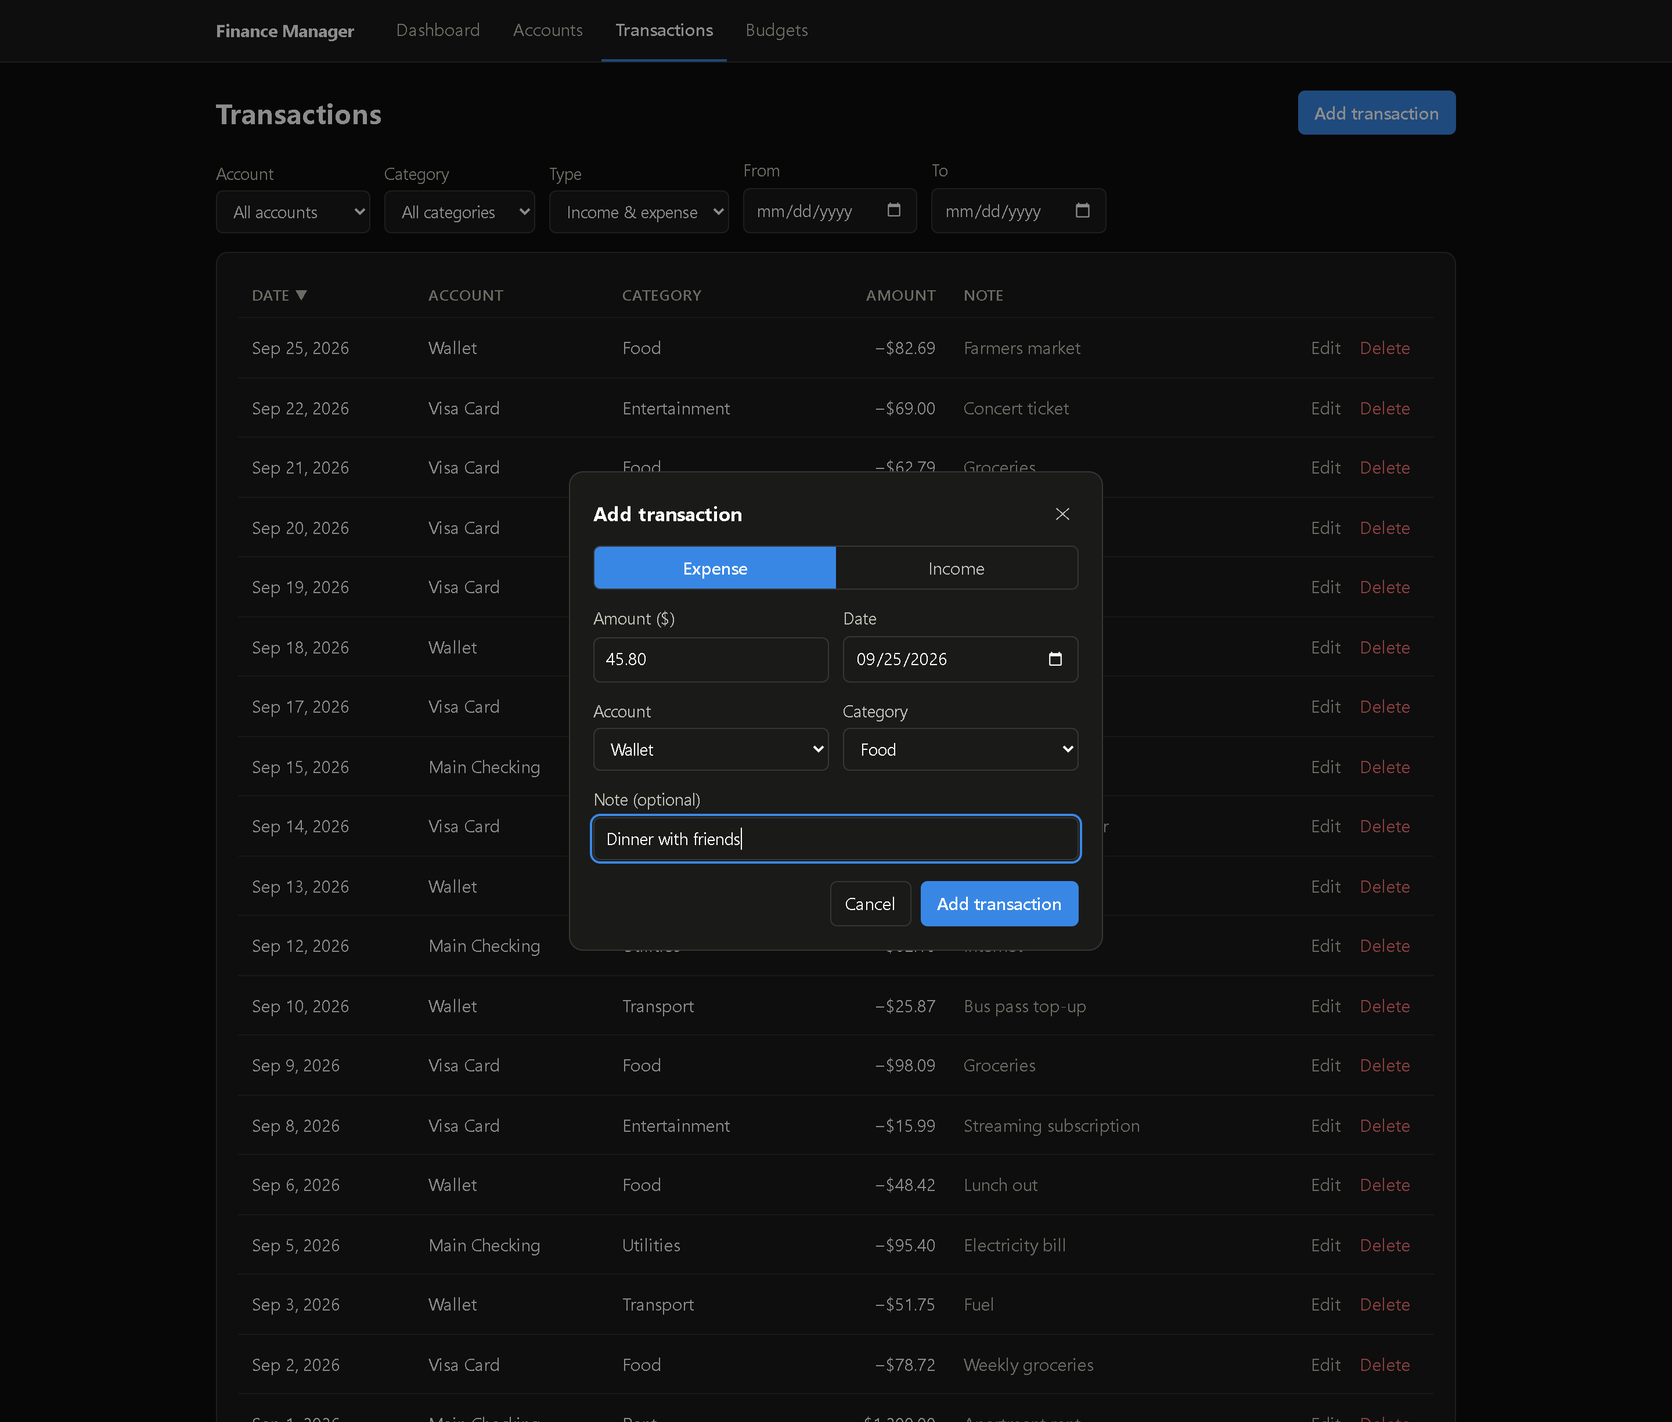
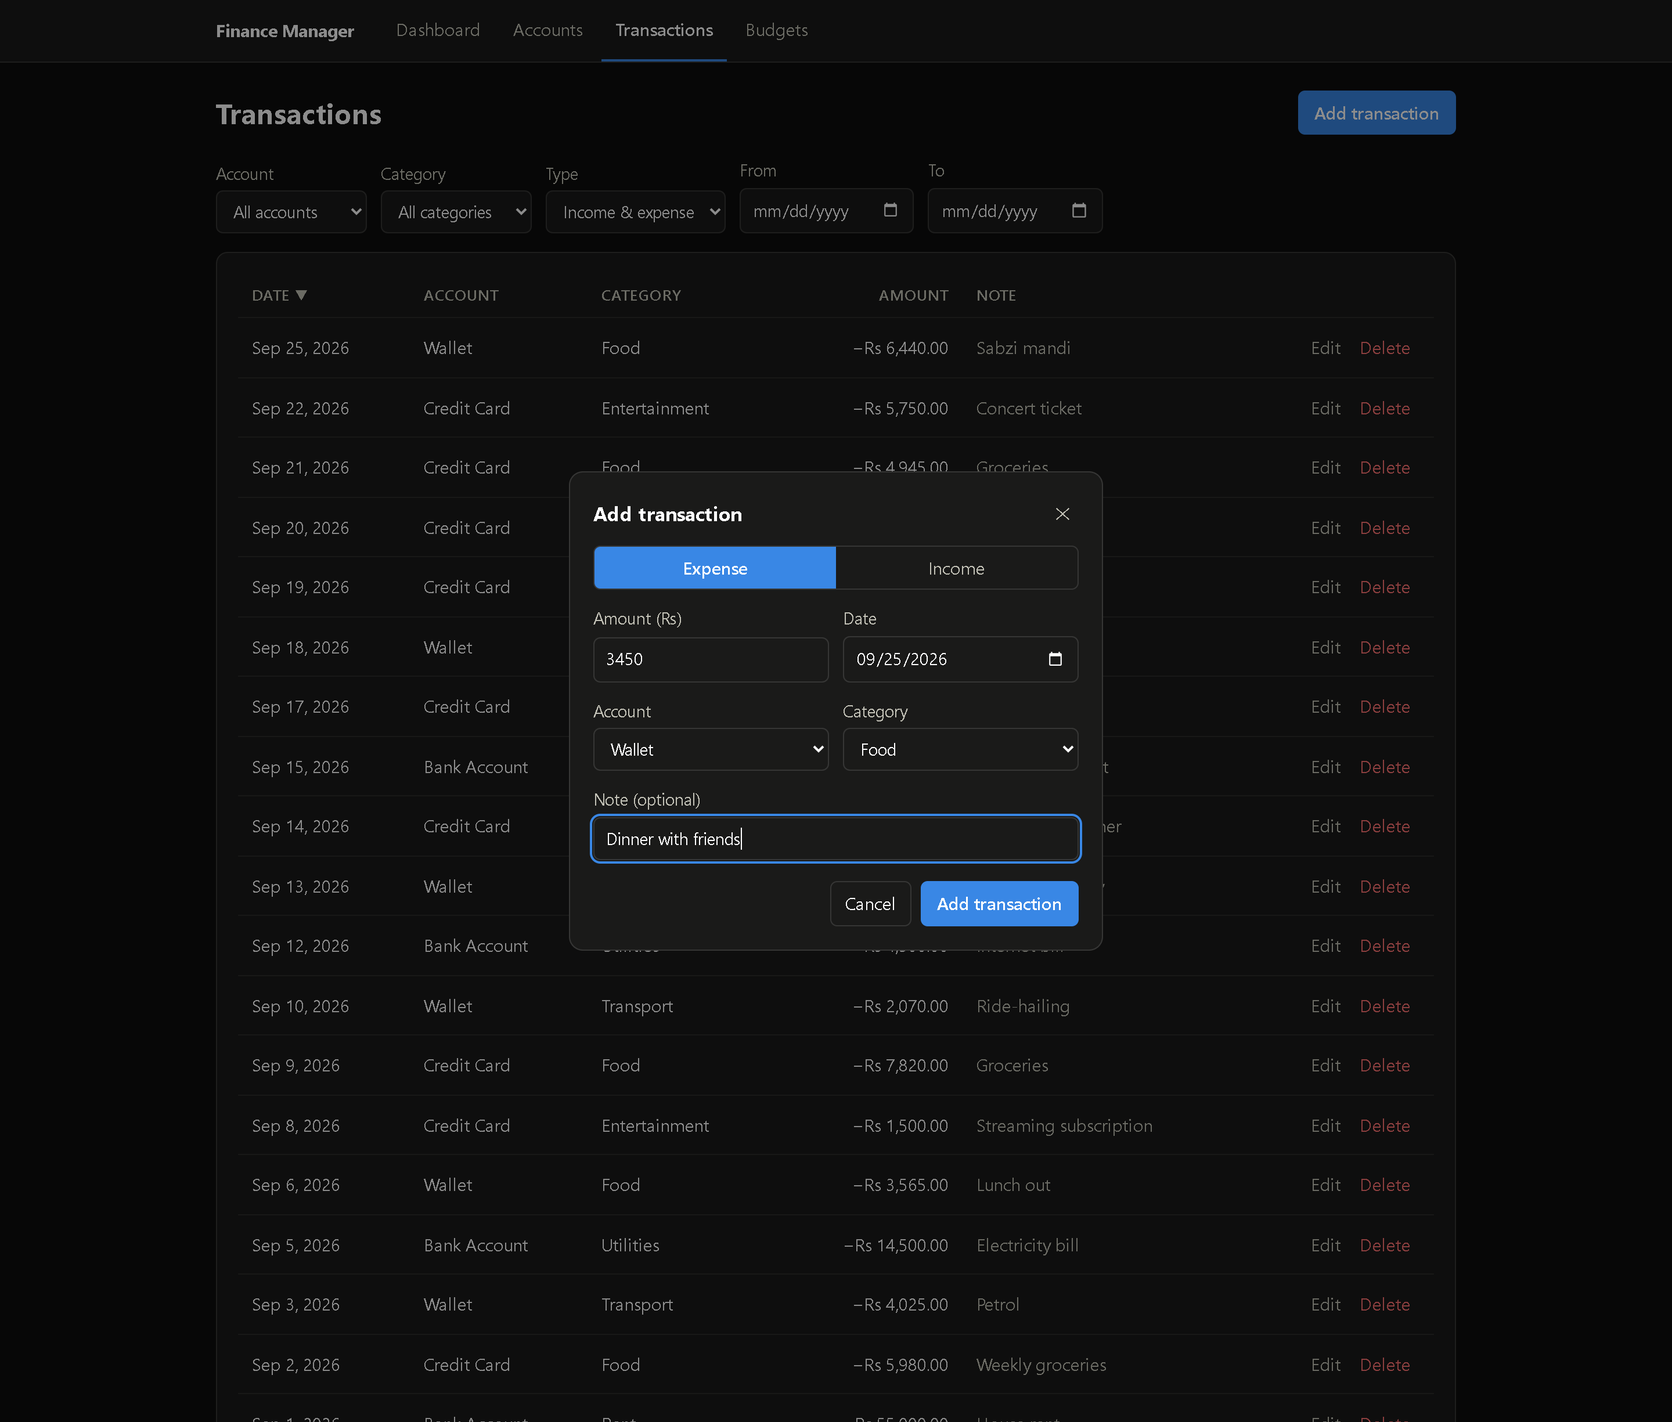
Switch currency to Pakistani rupees (PKR)
- Format every amount as "Rs 1,234.50" using the en-PK locale, forced to
  two decimals because Chrome's PKR data has none and would hide paisa
- Label inputs with Rs instead of $, and use whole-rupee chart axis labels
- Rescale the sample data to realistic rupee amounts and neutral account
  names
- Update tests, README wording and regenerate the screenshots

diff --git a/client/src/pages/Dashboard.test.jsx b/client/src/pages/Dashboard.test.jsx
@@ -56,15 +56,22 @@ describe('Dashboard', () => {
 
   it('shows income, expenses and a signed net for the month', async () => {
     render(<Dashboard />);
-    expect(await screen.findByText('$3,450.00')).toBeInTheDocument();
-    expect(screen.getByText('$2,273.25')).toBeInTheDocument();
-    expect(screen.getByText('+$1,176.75')).toBeInTheDocument();
+    expect(await screen.findByText('Rs 3,450.00')).toBeInTheDocument();
+    expect(screen.getByText('Rs 2,273.25')).toBeInTheDocument();
+    expect(screen.getByText('+Rs 1,176.75')).toBeInTheDocument();
+  });
+
+  it('shows every amount in rupees with no dollar signs', async () => {
+    render(<Dashboard />);
+    await screen.findByText('Rs 3,450.00');
+    expect(document.body.textContent).not.toContain('$');
+    expect(document.body.textContent).toContain('Rs');
   });
 
   it('shows a negative net without a plus sign', async () => {
     reportsApi.summary.mockResolvedValue({ ...summary, totalIncome: 100, totalExpenses: 300, net: -200 });
     render(<Dashboard />);
-    const net = await screen.findByText('-$200.00');
+    const net = await screen.findByText('-Rs 200.00');
     expect(net).toHaveClass('negative');
   });
 
@@ -73,7 +80,7 @@ describe('Dashboard', () => {
     render(<Dashboard />);
     await screen.findByText('No expenses in', { exact: false });
     const stats = [...document.querySelectorAll('.stat-value')];
-    expect(stats.map((el) => el.textContent)).toEqual(['$0.00', '$0.00', '$0.00']);
+    expect(stats.map((el) => el.textContent.replace(/\u00a0/g, ' '))).toEqual(['Rs 0.00', 'Rs 0.00', 'Rs 0.00']);
     expect(stats[2]).not.toHaveClass('negative');
     expect(stats[2]).not.toHaveClass('income');
   });
@@ -82,16 +89,16 @@ describe('Dashboard', () => {
     render(<Dashboard />);
     const rent = (await screen.findAllByText('Rent')).find((el) => el.classList.contains('name'));
     const row = rent.closest('li');
-    expect(within(row).getByText('$1,200.00')).toBeInTheDocument();
+    expect(within(row).getByText('Rs 1,200.00')).toBeInTheDocument();
     expect(within(row).getByText('53%')).toBeInTheDocument();
     expect(screen.getByTestId('doughnut')).toHaveTextContent('Rent,Food');
   });
 
   it('flags over-budget and under-budget categories with words as well as colour', async () => {
     render(<Dashboard />);
-    expect(await screen.findByText(/Over budget by \$124\.87 \(131\.2%\)/)).toHaveClass('over');
-    expect(screen.getByText(/Under budget, \$20\.00 left \(83\.3%\)/)).toHaveClass('under');
-    expect(screen.getByText('$524.87 of $400.00')).toBeInTheDocument();
+    expect(await screen.findByText(/Over budget by \Rs 124\.87 \(131\.2%\)/)).toHaveClass('over');
+    expect(screen.getByText(/Under budget, \Rs 20\.00 left \(83\.3%\)/)).toHaveClass('under');
+    expect(screen.getByText('Rs 524.87 of Rs 400.00')).toBeInTheDocument();
   });
 
   it('caps the progress bar at 100% when over budget', async () => {
@@ -127,7 +134,7 @@ describe('Dashboard', () => {
 
   it('reloads the reports when the month changes', async () => {
     render(<Dashboard />);
-    await screen.findByText('$3,450.00');
+    await screen.findByText('Rs 3,450.00');
     await userEvent.click(screen.getByRole('button', { name: 'Previous month' }));
     const previous = addMonths(month, -1);
     expect(reportsApi.summary).toHaveBeenLastCalledWith(previous);
@@ -140,6 +147,6 @@ describe('Dashboard', () => {
     expect(await screen.findByRole('alert')).toHaveTextContent('Cannot reach the server');
     reportsApi.summary.mockResolvedValue(summary);
     await userEvent.click(screen.getByRole('button', { name: 'Retry' }));
-    expect(await screen.findByText('$3,450.00')).toBeInTheDocument();
+    expect(await screen.findByText('Rs 3,450.00')).toBeInTheDocument();
   });
 });

diff --git a/server/src/db/seed.js b/server/src/db/seed.js
@@ -4,36 +4,36 @@ import { addMonths, currentMonth, todayISO } from '../utils/dates.js';
 import { toCents } from '../utils/money.js';
 
 const ACCOUNTS = [
-  ['Wallet', 'Cash', 900],
-  ['Main Checking', 'Bank', 2500],
-  ['Visa Card', 'Credit Card', 0],
+  ['Wallet', 'Cash', 70000],
+  ['Bank Account', 'Bank', 250000],
+  ['Credit Card', 'Credit Card', 0],
 ];
 
 const MONTH_TEMPLATE = [
-  [1, 'Main Checking', 'Salary', 'income', 3200, 'Monthly paycheck', false],
-  [1, 'Main Checking', 'Rent', 'expense', 1200, 'Apartment rent', false],
-  [2, 'Visa Card', 'Food', 'expense', 68.45, 'Weekly groceries', true],
-  [3, 'Wallet', 'Transport', 'expense', 45, 'Fuel', true],
-  [5, 'Main Checking', 'Utilities', 'expense', 95.4, 'Electricity bill', false],
-  [6, 'Wallet', 'Food', 'expense', 42.1, 'Lunch out', true],
-  [8, 'Visa Card', 'Entertainment', 'expense', 15.99, 'Streaming subscription', false],
-  [9, 'Visa Card', 'Food', 'expense', 85.3, 'Groceries', true],
-  [10, 'Wallet', 'Transport', 'expense', 22.5, 'Bus pass top-up', true],
-  [12, 'Main Checking', 'Utilities', 'expense', 62.1, 'Internet', false],
-  [13, 'Wallet', 'Food', 'expense', 37.8, 'Takeaway dinner', true],
-  [14, 'Visa Card', 'Entertainment', 'expense', 42, 'Cinema and dinner', true],
-  [15, 'Main Checking', 'Other', 'income', 250, 'Freelance gig', false],
-  [17, 'Visa Card', 'Food', 'expense', 96.25, 'Groceries', true],
-  [18, 'Wallet', 'Transport', 'expense', 48, 'Fuel', true],
-  [19, 'Visa Card', 'Health', 'expense', 28.5, 'Pharmacy', true],
-  [20, 'Visa Card', 'Shopping', 'expense', 79.99, 'New shoes', true],
-  [21, 'Visa Card', 'Food', 'expense', 54.6, 'Groceries', true],
-  [22, 'Visa Card', 'Entertainment', 'expense', 60, 'Concert ticket', true],
-  [25, 'Wallet', 'Food', 'expense', 71.9, 'Farmers market', true],
-  [28, 'Visa Card', 'Food', 'expense', 63.15, 'Groceries', true],
+  [1, 'Bank Account', 'Salary', 'income', 185000, 'Monthly salary', false],
+  [1, 'Bank Account', 'Rent', 'expense', 55000, 'House rent', false],
+  [2, 'Credit Card', 'Food', 'expense', 5200, 'Weekly groceries', true],
+  [3, 'Wallet', 'Transport', 'expense', 3500, 'Petrol', true],
+  [5, 'Bank Account', 'Utilities', 'expense', 14500, 'Electricity bill', false],
+  [6, 'Wallet', 'Food', 'expense', 3100, 'Lunch out', true],
+  [8, 'Credit Card', 'Entertainment', 'expense', 1500, 'Streaming subscription', false],
+  [9, 'Credit Card', 'Food', 'expense', 6800, 'Groceries', true],
+  [10, 'Wallet', 'Transport', 'expense', 1800, 'Ride-hailing', true],
+  [12, 'Bank Account', 'Utilities', 'expense', 4500, 'Internet bill', false],
+  [13, 'Wallet', 'Food', 'expense', 2900, 'Dinner takeaway', true],
+  [14, 'Credit Card', 'Entertainment', 'expense', 3500, 'Cinema and dinner', true],
+  [15, 'Bank Account', 'Other', 'income', 22000, 'Freelance project', false],
+  [17, 'Credit Card', 'Food', 'expense', 7400, 'Groceries', true],
+  [18, 'Wallet', 'Transport', 'expense', 4000, 'Petrol', true],
+  [19, 'Credit Card', 'Health', 'expense', 2400, 'Pharmacy', true],
+  [20, 'Credit Card', 'Shopping', 'expense', 6500, 'New shoes', true],
+  [21, 'Credit Card', 'Food', 'expense', 4300, 'Groceries', true],
+  [22, 'Credit Card', 'Entertainment', 'expense', 5000, 'Concert ticket', true],
+  [25, 'Wallet', 'Food', 'expense', 5600, 'Sabzi mandi', true],
+  [28, 'Credit Card', 'Food', 'expense', 4800, 'Groceries', true],
 ];
 
-const BUDGETS = { Food: 400, Transport: 120, Entertainment: 150, Utilities: 170 };
+const BUDGETS = { Food: 32000, Transport: 9000, Entertainment: 12000, Utilities: 20000 };
 
 const MONTH_FACTORS = [0.7, 1.0, 1.15];
 

diff --git a/client/src/components/TransactionForm.test.jsx b/client/src/components/TransactionForm.test.jsx
@@ -65,7 +65,7 @@ describe('TransactionForm (new)', () => {
 
   it('submits numeric ids and amount to the API, then reports success', async () => {
     const { onSaved } = renderForm();
-    await userEvent.type(screen.getByLabelText('Amount ($)'), '12.34');
+    await userEvent.type(screen.getByLabelText('Amount (Rs)'), '12.34');
     await userEvent.selectOptions(screen.getByLabelText('Account'), 'Bank');
     await userEvent.selectOptions(screen.getByLabelText('Category'), 'Food');
     await userEvent.type(screen.getByLabelText('Note (optional)'), 'lunch');
@@ -84,7 +84,7 @@ describe('TransactionForm (new)', () => {
 
   it('does not submit without a category', async () => {
     renderForm();
-    await userEvent.type(screen.getByLabelText('Amount ($)'), '5');
+    await userEvent.type(screen.getByLabelText('Amount (Rs)'), '5');
     await userEvent.click(screen.getByRole('button', { name: 'Add transaction' }));
     expect(transactionsApi.create).not.toHaveBeenCalled();
   });
@@ -92,7 +92,7 @@ describe('TransactionForm (new)', () => {
   it('shows the server error and stays open', async () => {
     transactionsApi.create.mockRejectedValue(new Error('accountId does not exist'));
     const { onSaved } = renderForm();
-    await userEvent.type(screen.getByLabelText('Amount ($)'), '5');
+    await userEvent.type(screen.getByLabelText('Amount (Rs)'), '5');
     await userEvent.selectOptions(screen.getByLabelText('Category'), 'Food');
     await userEvent.click(screen.getByRole('button', { name: 'Add transaction' }));
 
@@ -110,7 +110,7 @@ describe('TransactionForm (new)', () => {
   it('explains when there are no accounts yet', () => {
     renderForm({ accounts: [] });
     expect(screen.getByText(/at least one account/i)).toBeInTheDocument();
-    expect(screen.queryByLabelText('Amount ($)')).not.toBeInTheDocument();
+    expect(screen.queryByLabelText('Amount (Rs)')).not.toBeInTheDocument();
   });
 });
 
@@ -128,7 +128,7 @@ describe('TransactionForm (edit)', () => {
   it('prefills every field', () => {
     renderForm({ transaction: existing });
     expect(screen.getByRole('radio', { name: 'Income' })).toBeChecked();
-    expect(screen.getByLabelText('Amount ($)')).toHaveValue(250);
+    expect(screen.getByLabelText('Amount (Rs)')).toHaveValue(250);
     expect(screen.getByLabelText('Account')).toHaveValue('2');
     expect(screen.getByLabelText('Category')).toHaveValue('2');
     expect(screen.getByLabelText('Date')).toHaveValue('2026-03-04');
@@ -137,7 +137,7 @@ describe('TransactionForm (edit)', () => {
 
   it('updates by id', async () => {
     const { onSaved } = renderForm({ transaction: existing });
-    const amount = screen.getByLabelText('Amount ($)');
+    const amount = screen.getByLabelText('Amount (Rs)');
     await userEvent.clear(amount);
     await userEvent.type(amount, '300');
     await userEvent.click(screen.getByRole('button', { name: 'Save changes' }));

diff --git a/client/src/pages/Transactions.test.jsx b/client/src/pages/Transactions.test.jsx
@@ -43,20 +43,20 @@ describe('Transactions page', () => {
     await renderPage();
     const expense = screen.getByText('Market').closest('tr');
     expect(within(expense).getByText('Sep 25, 2026')).toBeInTheDocument();
-    expect(within(expense).getByText('−$82.69')).toHaveClass('expense');
+    expect(within(expense).getByText('−Rs 82.69')).toHaveClass('expense');
     const income = screen.getByText('Salary', { selector: 'td' }).closest('tr');
-    expect(within(income).getByText('+$3,200.00')).toHaveClass('income');
+    expect(within(income).getByText('+Rs 3,200.00')).toHaveClass('income');
   });
 
   it('summarises the count and net of what is shown', async () => {
     await renderPage();
-    expect(screen.getByText(/2 transactions · Net \$3,117\.31/)).toBeInTheDocument();
+    expect(screen.getByText(/2 transactions · Net \Rs 3,117\.31/)).toBeInTheDocument();
   });
 
   it('uses the singular for one transaction', async () => {
     transactionsApi.list.mockResolvedValue([transactions[0]]);
     await renderPage();
-    expect(screen.getByText(/1 transaction · Net -\$82\.69/)).toBeInTheDocument();
+    expect(screen.getByText(/1 transaction · Net -\Rs 82\.69/)).toBeInTheDocument();
   });
 
   it('requests newest first by default', async () => {
@@ -116,7 +116,7 @@ describe('Transactions page', () => {
     await renderPage();
     await clickRowDelete('Market');
     expect(within(dialog()).getByRole('heading', { name: 'Delete transaction' })).toBeInTheDocument();
-    expect(within(dialog()).getByText(/\$82\.69 Food transaction from Sep 25, 2026/)).toBeInTheDocument();
+    expect(within(dialog()).getByText(/\Rs 82\.69 Food transaction from Sep 25, 2026/)).toBeInTheDocument();
     expect(transactionsApi.remove).not.toHaveBeenCalled();
 
     await userEvent.click(within(dialog()).getByRole('button', { name: 'Delete' }));
@@ -160,7 +160,7 @@ describe('Transactions page', () => {
     await userEvent.click(within(screen.getByText('Market').closest('tr')).getByRole('button', { name: 'Edit' }));
     const dialog = document.querySelector('dialog');
     expect(within(dialog).getByRole('heading', { name: 'Edit transaction' })).toBeInTheDocument();
-    expect(within(dialog).getByLabelText('Amount ($)')).toHaveValue(82.69);
+    expect(within(dialog).getByLabelText('Amount (Rs)')).toHaveValue(82.69);
     expect(within(dialog).getByLabelText('Note (optional)')).toHaveValue('Market');
   });
 

diff --git a/client/src/utils/format.test.js b/client/src/utils/format.test.js
@@ -1,15 +1,47 @@
 import { describe, expect, it } from 'vitest';
-import { addMonths, currentMonth, formatDate, formatMoney, formatMonth, todayISO } from './format.js';
+import {
+  CURRENCY_SYMBOL,
+  addMonths,
+  currentMonth,
+  formatDate,
+  formatMoney,
+  formatMoneyWhole,
+  formatMonth,
+  todayISO,
+} from './format.js';
 
 describe('formatMoney', () => {
-  it('formats dollars with separators and two decimals', () => {
-    expect(formatMoney(0)).toBe('$0.00');
-    expect(formatMoney(1234.5)).toBe('$1,234.50');
-    expect(formatMoney(1000000)).toBe('$1,000,000.00');
+  it('formats rupees with separators and two decimals', () => {
+    expect(formatMoney(0)).toBe('Rs\u00a00.00');
+    expect(formatMoney(1234.5)).toBe('Rs\u00a01,234.50');
+    expect(formatMoney(1000000)).toBe('Rs\u00a01,000,000.00');
+  });
+
+  it('always shows two decimals so paisa are never hidden', () => {
+    expect(formatMoney(10.5)).toBe('Rs\u00a010.50');
+    expect(formatMoney(207000)).toBe('Rs\u00a0207,000.00');
+    expect(formatMoney(0.07)).toBe('Rs\u00a00.07');
   });
 
   it('formats negatives with a minus sign', () => {
-    expect(formatMoney(-1623.35)).toBe('-$1,623.35');
+    expect(formatMoney(-1623.35)).toBe('-Rs\u00a01,623.35');
+  });
+});
+
+describe('formatMoneyWhole', () => {
+  it('drops the decimals for compact labels', () => {
+    expect(formatMoneyWhole(150000)).toBe('Rs\u00a0150,000');
+    expect(formatMoneyWhole(0)).toBe('Rs\u00a00');
+  });
+});
+
+describe('currency', () => {
+  it('uses the Pakistani rupee symbol and never a dollar sign', () => {
+    expect(CURRENCY_SYMBOL).toBe('Rs');
+    for (const amount of [0, 1, 99.5, -20, 1234567.89]) {
+      expect(formatMoney(amount)).not.toContain('$');
+      expect(formatMoney(amount)).toContain('Rs');
+    }
   });
 });
 

diff --git a/client/src/pages/Accounts.test.jsx b/client/src/pages/Accounts.test.jsx
@@ -29,14 +29,14 @@ describe('Accounts page', () => {
     const row = rowFor('Main Checking');
     expect(within(row).getByText('Bank')).toBeInTheDocument();
     expect(within(row).getByText('15')).toBeInTheDocument();
-    expect(within(row).getByText('$8,777.50')).toBeInTheDocument();
+    expect(within(row).getByText('Rs 8,777.50')).toBeInTheDocument();
   });
 
   it('marks negative balances and sums a net worth total', async () => {
     render(<Accounts />);
     await screen.findByText('Visa Card');
-    expect(within(rowFor('Visa Card')).getByText('-$1,623.35')).toHaveClass('negative');
-    expect(within(rowFor('Net worth')).getByText('$7,164.15')).toBeInTheDocument();
+    expect(within(rowFor('Visa Card')).getByText('-Rs 1,623.35')).toHaveClass('negative');
+    expect(within(rowFor('Net worth')).getByText('Rs 7,164.15')).toBeInTheDocument();
   });
 
   it('shows an empty state with no accounts', async () => {

diff --git a/client/src/components/charts.jsx b/client/src/components/charts.jsx
@@ -3,7 +3,7 @@ import {
 } from 'chart.js';
 import { Bar, Doughnut } from 'react-chartjs-2';
 import { useChartTheme } from '../hooks/useChartTheme.js';
-import { formatMoney, formatMonth } from '../utils/format.js';
+import { formatMoney, formatMoneyWhole, formatMonth } from '../utils/format.js';
 
 ChartJS.register(ArcElement, BarElement, CategoryScale, LinearScale, Tooltip);
 
@@ -64,7 +64,7 @@ export function TrendBars({ trend, selectedMonth }) {
         beginAtZero: true,
         grid: { color: theme.grid },
         border: { display: false },
-        ticks: { color: theme.muted, callback: (v) => formatMoney(v).replace('.00', '') },
+        ticks: { color: theme.muted, callback: (v) => formatMoneyWhole(v) },
       },
     },
   };

diff --git a/client/src/utils/format.js b/client/src/utils/format.js
@@ -1,6 +1,16 @@
-const money = new Intl.NumberFormat('en-US', { style: 'currency', currency: 'USD' });
+const money = new Intl.NumberFormat('en-PK', {
+  style: 'currency',
+  currency: 'PKR',
+  minimumFractionDigits: 2,
+  maximumFractionDigits: 2,
+});
+const wholeMoney = new Intl.NumberFormat('en-PK', { style: 'currency', currency: 'PKR', maximumFractionDigits: 0 });
+
+export const CURRENCY_SYMBOL = 'Rs';
 
 export const formatMoney = (amount) => money.format(amount);
+
+export const formatMoneyWhole = (amount) => wholeMoney.format(amount);
 
 const pad = (n) => String(n).padStart(2, '0');
 

diff --git a/client/src/pages/Budgets.test.jsx b/client/src/pages/Budgets.test.jsx
@@ -48,7 +48,7 @@ describe('Budgets page', () => {
     expect(screen.getByLabelText('Rent budget')).toHaveValue(null);
     expect(screen.queryByLabelText('Salary budget')).not.toBeInTheDocument();
     expect(screen.getByLabelText('Food budget')).toHaveValue(300);
-    expect(screen.getByText('$120.00')).toBeInTheDocument();
+    expect(screen.getByText('Rs 120.00')).toBeInTheDocument();
   });
 
   it('creates a budget for a category that has none', async () => {

diff --git a/client/src/pages/Budgets.jsx b/client/src/pages/Budgets.jsx
@@ -35,7 +35,7 @@ function BudgetRow({ category, budget, spent, month, onChanged, onError }) {
       <td className="num">{formatMoney(spent)}</td>
       <td>
         <div className="budget-input">
-          <span aria-hidden="true">$</span>
+          <span aria-hidden="true">Rs</span>
           <input
             type="number" min="0.01" step="0.01" placeholder="No budget"
             value={value} onChange={(e) => setValue(e.target.value)}

diff --git a/client/src/components/AccountForm.jsx b/client/src/components/AccountForm.jsx
@@ -46,7 +46,7 @@ export default function AccountForm({ account, onSaved, onCancel }) {
       </label>
 
       <label className="field">
-        Opening balance ($)
+        Opening balance (Rs)
         <input type="number" step="0.01" value={form.openingBalance} onChange={set('openingBalance')} required />
         <span className="muted">The balance before any transactions. Use a negative number for existing debt.</span>
       </label>

diff --git a/client/src/components/TransactionForm.jsx b/client/src/components/TransactionForm.jsx
@@ -67,7 +67,7 @@ export default function TransactionForm({ transaction, accounts, categories, onS
 
       <div className="field-row">
         <label className="field">
-          Amount ($)
+          Amount (Rs)
           <input type="number" step="0.01" min="0.01" value={form.amount} onChange={set('amount')} required autoFocus />
         </label>
         <label className="field">
